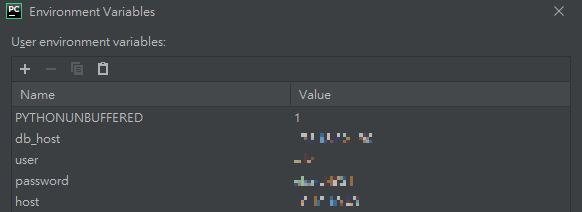
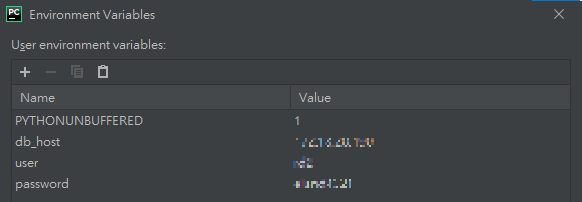
README is slightly revised

diff --git a/app.py b/app.py
@@ -54,4 +54,4 @@ async def select_posts(s_id: Optional[str] = None,
                                    limit=limit, offset=offset)
 
 if __name__ == "__main__":
-    uvicorn.run("app:app", host=os.getenv('host'), port=8000, reload=True, debug=True)
+    uvicorn.run("app:app", host='0.0.0.0', port=8000, reload=True, debug=True)

diff --git a/README.md b/README.md
@@ -3,7 +3,8 @@ Provides an easy way to fetch data from database.
 **Structure**
 - - -
     mysql_api/
-    ├── README.md   
+    ├── app.py
+    ├── README.md  
     ├── requirements.txt
     ├── .gitignore
     ├── object
@@ -11,16 +12,20 @@ Provides an easy way to fetch data from database.
     │   └── database.py
     │   └── schema.py
     └── utilities
-        └── __init__.py
-        └── tools.py
+    │   └── __init__.py
+    │   └── tools.py
+    └── pictures
+        └── docs.png
+        └── environment_variables.png
+        └── result.png
 - - -
 **Instructions**
 - - -
-1.  Set environment variables in 'app' configuration.
+1.  Set environment variables in configuration of *app.py*.
    
 ![environment variables](pictures/environment_variables.png)
 
-2.  Run app.py script.
+2.  Run *app.py*.
 3.  Send requests to access posts. For instance, you can fetch posts on WH_F0116(Dcard) which contain both 小弟 and 女友 by the code below.
 
         import requests 
